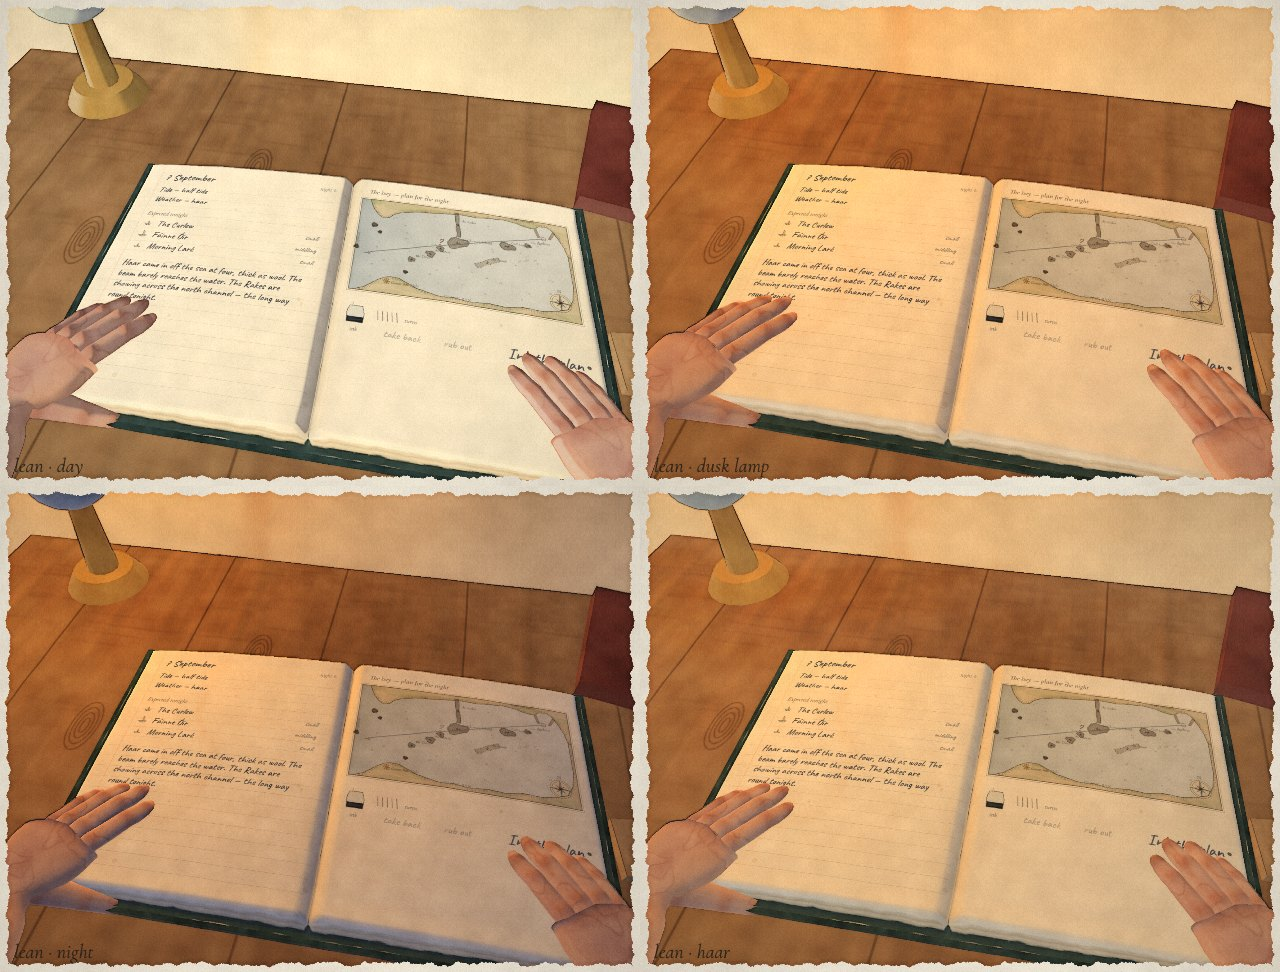
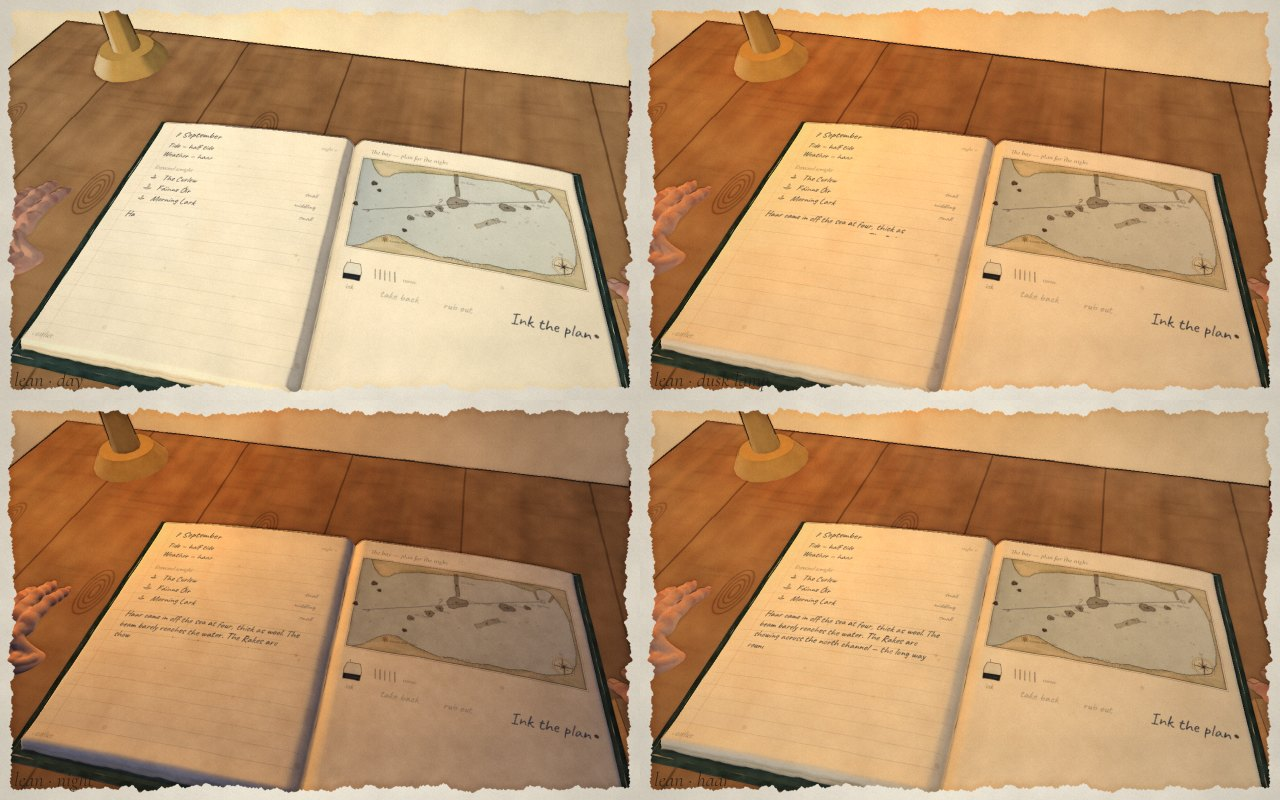
Hands (M7): screenshots 40-44, regenerated hand sheets, REPORT and docs
REPORT gains a milestone 7 section: the continuous old skin, the end of
the shaking (0 mm a frame held), the wrists' range and how it was
measured, the hands kept off the pages, and inking with the quill.
README, DESIGN and the handoff describe the new hands, handmesh.js and
inkwell.js. The palm-side webs sit a touch deeper (no glints in the
palm), and the hands review paints only the frame it keeps.

Claude-Session: https://claude.ai/code/session_01MaF5K2PwreNKvKrsbHzXcK

diff --git a/src/world/review.js b/src/world/review.js
@@ -25,9 +25,13 @@ export function installReview(game) {
     for (let i = 0; i < LIGHTS.length; i++) {
       k.review(pose, LIGHTS[i][0], LIGHTS[i][1]);
       game.snapLook = true;
-      // let the springs and the look settle, then take the frame in the same task it's drawn
+      // let the springs and the look settle (unpainted), then take the frame in the same task it's drawn
+      const nr = game.noRender;
+      game.noRender = true;
       game.step(40, 1 / 30);
+      game.noRender = false;
       game.step(1, 1 / 30);
+      game.noRender = nr;
       sx.drawImage(grab(tw, th), (i % 2) * tw, Math.floor(i / 2) * th);
       sx.font = 'italic 20px "Cormorant Garamond", serif';
       sx.fillStyle = 'rgba(30,26,22,0.8)';

diff --git a/src/world/handmesh.js b/src/world/handmesh.js
@@ -411,7 +411,7 @@ export function buildHandField(skel) {
     const a = fn[i], b = fn[i + 1];
     const A = skel.frame(a + '1').at(0, -2.6, -14), B = skel.frame(b + '1').at(0, -2.6, -14);
     add(capsule(A, B, 4.2), 6, 'web' + i);
-    add(capsule(skel.frame(a + '1').at(0, -3, -5), skel.frame(b + '1').at(0, -3, -5), 5.2), 6, 'web' + i);
+    add(capsule(skel.frame(a + '1').at(0, -1.6, -5), skel.frame(b + '1').at(0, -1.6, -5), 5.2), 6, 'web' + i);
     parts['web' + i] = { a, b, A, B };
   }
 

diff --git a/REPORT.md b/REPORT.md
@@ -497,3 +497,111 @@ Screenshots:
 * Measure the frame rate on an integrated-GPU laptop and on a phone (the brief's 60 fps target).
 * Try pointer lock and the touch stick.
 * Look at the watercolor under a real GPU against these software-rendered shots.
+
+## The hands, remodelled (milestone 7)
+
+**One continuous old skin** (`src/world/handmesh.js`). The old arm was a lofted forearm and palm with
+separate tubes for the fingers, which looked like sausages pushed into a mitten. The new one is built
+the way an anatomy drawing is: bony shapes smooth-unioned into one signed distance field.
+* **The shapes:** the forearm, the palm slab, the long bones of the hand with their knuckle heads, the
+  ball of the thumb, the heel of the hand, the pads under the knuckles, the webs between the fingers
+  and the thumb, and phalanges with joints wider than the shafts between them.
+* **Meshing.** The field is meshed once with surface nets (1.25 mm grid, each vertex pulled onto the
+  surface, normals from the field). Sealed pockets between the shapes are dropped.
+* **Weights.** Each vertex is weighted to the bones by which part of the hand owns it: the nearest
+  part, softly. Along a finger, the joint blends are short.
+* **Bind pose.** The skin is built with the fingers spread, so they can be told apart; every finger
+  pose is now absolute.
+* **An old man's hands** (the drawing references agree: less fat, so bone, tendon and vein show).
+  * Big knuckles and knobby finger joints.
+  * Extensor tendons, and wandering raised veins on the backs of the hands and up the forearms,
+    painted blue-grey.
+  * Age spots and mottling.
+  * The skin shader (`skin: true` on `wash`) draws, in the ink layer, bunched wrinkles over the
+    knuckles, a crêpe of fine crossing lines on the backs, and each nail's outline.
+  * Skin takes softer light bands than the room (`band`, `bare`), so small forms don't turn into
+    hard stripes.
+* **The sleeves** now run up over the shoulder and close, so from above they no longer show as open
+  tubes.
+* **Building it.** About 64k vertices per arm, about 1.4 s to build in this container. It's done in a
+  module worker started at boot, alongside the fonts, so the loading screen stays live. `prepareSkin`
+  falls back to building in place.
+
+**No more shaking.**
+* The tremor (23–37 Hz wobble on every wrist target, growing with drift), the finger jitter, the
+  breathing bob and the under-damped spring are gone.
+* Wrists now follow their targets critically damped. Nothing overshoots.
+* Held in any pose, a hand moves **0.000 mm a frame**. Before, it was 0.17–0.38 mm a frame, up to
+  1.3 mm while writing.
+
+**Natural wrists.**
+* **The elbow.** The IK puts the elbow where the forearm meets the hand as a wrist likes it.
+  Otherwise it leans on the body's pole, and it swings round at a limited rate.
+* **The forearm's turn** is one continuous angle from its neutral (thumb-up) position, within ±100°,
+  shared down the arm. It no longer wraps round from +180° to −180°.
+* **The wrist** is held inside an elliptical cone of its real range: 55° back, 65° forward, 20°
+  toward the thumb, 30° toward the little finger, and little twist of its own.
+* **Hanging hands** follow their arms (`align`).
+* **The arms ride with the body**, and at a cut they are simply placed where they belong.
+* **Poses can place a point of the hand.** The fingertips go under the cover's edge, and the palm
+  over the lever's ball (`at`). The cover and lever grips were fitted by a small search for the most
+  comfortable wrist.
+* **Checked** with a per-pose wrist report and a frame-by-frame trace of a whole autoplayed night.
+  * Before: hanging hands bent 78–103°, the lamp grip 153°/305°, and transitions flipped the wrist up
+    to 154° in one frame.
+  * Now: every pose is within range (at most 39° back, 30° forward, 17° toward the thumb, 28° toward
+    the little finger).
+  * The worst transition is about 50° in a frame, and only under autoplay's compressed timing.
+
+**Never over the journal.**
+* Leaning over the book, both hands rest on the table beside it. The fingertips reach at most to the
+  leather beyond the pages.
+* The pencil comes onto the page only while you are drawing (and for a second after). Otherwise the
+  page's own crosshair shows.
+* The left hand never goes onto the pages.
+* The cover is lifted at dawn with the fingertips and let fall.
+
+**Inking with a quill** (`src/world/inkwell.js`, `Keeper.inkSteps`). After the pencil line, *Ink
+the plan* now plays out:
+1. The head turns to the right of the book.
+2. The pencil is set down in the tray, point first, and falls flat.
+3. The hand takes the inkwell and slides it in beside the book.
+4. It draws the goose quill out of the well and dips it.
+5. It inks the line: the nib follows the route exactly, sliding smoothly between its points.
+6. The quill goes back in the well before the keeper straightens up.
+
+How it fits together:
+* The logbook's inking waits (`inking.hold`) until the nib is on the line. 2D play is unchanged.
+* The quill and the inkwell (glass with a brass collar, ink inside, the barbs of the feather drawn in
+  ink) are drawn in code, and the old dip pen is gone. The inkwell that was baked into the table
+  mesh was removed, and the red book moved back a few centimetres to make room for the hand.
+* The pencil grip was refitted to the new fingers.
+
+**Verified** (headless Chromium, SwiftShader):
+* `?debug=1&autoplay=1&speed=4` runs the whole game, all 19 nights with the inking each dusk, to
+  `AUTOPLAY COMPLETE` with no console errors.
+* `node tools/check-nights.mjs` passes.
+* The debug studio camera (`__review.studio(pose, {hand, az, el, dist})`) and the `show` pose were
+  used to look at the hands from every side.
+
+Screenshots:
+* [the skin from four sides](docs/screenshots/40-hands-old-skin.jpg)
+* [holding things: pencil, lever, mug, cover](docs/screenshots/41-hands-holding.jpg)
+* [inking the plan with the quill](docs/screenshots/42-inking-with-the-quill.jpg)
+* [before and after](docs/screenshots/43-hands-before-after.jpg)
+* [both hands beside the book, the pages clear](docs/screenshots/44-hands-beside-the-book.jpg)
+* The `hands-<pose>.jpg` sheets were regenerated, and `hands-ready.jpg` was added.
+
+**Still rough.**
+* **Covering while writing.** While drawing, the pencil hand covers the page below and to the right
+  of its point, and so does the quill hand while it inks. A hand can't write otherwise.
+* **The right hand at rest** lies beside the book, outside the leaning view's frame (only the left
+  one shows). That's how the camera is framed.
+* **Momentary poses.** The cover-lift is mostly hidden behind the cover. In the mug pose, the
+  fingertips stop just short of the mug.
+* **Mesh defect.** Three sub-millimetre flipped triangles where a vein crosses a tendon on the back of
+  the wrist.
+* **Build time.** On a slow phone the skin may take a few seconds to build. It does so while the title
+  shows.
+* **Hardware.** Everything was seen only in software rendering, not yet under a real GPU.
+

diff --git a/docs/HANDOFF.md b/docs/HANDOFF.md
@@ -12,8 +12,8 @@ before you change anything. Run the game with `python3 tools/serve.py 8001`.
 | M3 | 8d81651 | The keeper's hands, posed and solved |
 | M4 | cac9fbf | The night from the chair: Fleet, time-lapse, beats, the sill note, eyelids |
 | M5 | 4a02fed | The day: the door, the headland walk, the six places, the light failing; the first-person stairs; footsteps, room tone and two reverbs |
-
-| M6 | (this commit) | First person is the default (`?view=classic` for 2D, automatic fallback); README and DESIGN; screenshots 36–39 |
+| M6 | 1185ce4 | First person is the default (`?view=classic` for 2D, automatic fallback); README and DESIGN; screenshots 36–39 |
+| M7 | (this branch) | The hands remodelled: one continuous old skin, no shaking, natural wrists, never over the pages, inking with a quill; screenshots 40–44 |
 
 REPORT.md has a section for each milestone, including what is still rough and what was decided
 differently from the plan (M5: the clock runs at √pace; the climb is 8 treads, not 14).
@@ -82,11 +82,19 @@ In first person (the default; not with `?view=classic`):
 - `onStep(speed)` fires every 0.72 m of stride (the stride, not the cadence, grows with the pace).
 - `speedScale` (the outdoor pace) and `autoTo` (autoplay steering to a world point).
 
-### hands.js
+### hands.js, handmesh.js, inkwell.js
 
-- `POSES`: walk, door, lean, write, pen, turn, lamp, chair, mug, close, rail, and others; see
-  `POSE_NAMES`.
-- `setPose(name, dur)`. The keeper owns the frames.
+- `POSES`: walk, door, lean, ready, write, pen, turn, close, chair, mug, lamp, rail, the inking steps
+  (`ink-tray`, `ink-well`, `ink-take`, `ink-lift`) and the debug `show`; see `POSE_NAMES`.
+- A pose places the wrist in a frame (`pos`/`rot`), or a point of the hand there (`at`), or lets a
+  hanging hand follow its arm (`align`), or holds a tool lying in a frame (`grasp`), or puts a tool's
+  tip on `hands.tip` (`tip`).
+- `setPose(name, dur)`. The keeper owns the frames. `take(tool)` / `put(tool, parent, pos, rot)` move
+  the pencil and the quill between the hand and the desk.
+- The skin is a distance field (handmesh.js) meshed at boot in a worker (`prepareSkin`, started from
+  `boot()` in main.js; it falls back to building in place).
+- The inking sequence is `Keeper.inkSteps()`; it holds the logbook's `inking` (`inking.hold`) until
+  the nib is on the line, and `nibAt()` follows `scene.penPts`.
 
 ### Audio (src/audio/)
 
@@ -128,8 +136,8 @@ In first person (the default; not with `?view=classic`):
   `render/paint.js`). Nothing is downloaded.
 - **Commit after each milestone and add a REPORT.md section for it.** The section says what was
   built, how it was checked, the screenshots taken, and what is still rough.
-- **Screenshots** are numbered in `docs/screenshots/`. The last M5 one is
-  `35-finale-stairs-hatch.jpg`.
+- **Screenshots** are numbered in `docs/screenshots/`. The last one is
+  `44-hands-beside-the-book.jpg`.
 - **check-nights**: `node tools/check-nights.mjs`.
 - **Dev server**: `.claude/launch.json` has `keeping-light-dev`, which runs
   `python3 tools/serve.py 8001`.

diff --git a/DESIGN.md b/DESIGN.md
@@ -43,7 +43,9 @@ src/world/geo.js           chart ↔ world (4 m to a chart unit), the tower, the
 src/world/keeper.js        the first-person game: phases, camera, states, prompts, HUD, autoplay
 src/world/room.js          the watch room, its door, stairs and sill, and the tower top seen from outside
 src/world/book.js          the logbook on the table: LogbookScene's layers as page textures, raycast input
-src/world/hands.js         the forearms and hands: skinned lofts, poses, two-bone IK, tremor
+src/world/hands.js         the forearms and hands: poses, two-bone IK with a wrist's limits, the grips
+src/world/handmesh.js      the old hands' skin as one distance field, meshed (in a worker) and weighted
+src/world/inkwell.js       the inkwell and the goose quill the plan is inked with
 src/world/walker.js        walking: keys and mouse look, touch stick, the pace, autoplay steering
 src/world/bay.js           the bay from the chart: land, sea, reefs, village, piers, ships, beam, beats
 src/world/night.js         the night from the chair: Fleet, the time-lapse and its slowdowns
@@ -131,8 +133,9 @@ take over through a bloom.
 
 ## Decisions made for first person
 
-* **Hands only.** No body, no shadow; two skinned forearms with eleven authored poses, two-bone IK,
-  and a tremor that grows with the handwriting's drift (REPORT, milestone 3).
+* **Hands only.** No body, no shadow; two skinned forearms with authored poses and two-bone IK held
+  inside a wrist's real range (REPORT, milestones 3 and 7). An old man's hands: one continuous skin,
+  bony knuckles, veins and wrinkles. They never shake, and they never lie over the pages.
 * **The bay is built from the chart** at 4 m to a unit, so the line in the book is the line from the
   window.
 * **The window faces the middle of the bay** (chart 50, 30), so the reefs fall inside it.

diff --git a/README.md b/README.md
@@ -51,7 +51,8 @@ You are the keeper, in first person: all you ever see of yourself is your forear
   * The inkwell and the tally marks show how much ink and how many turns you have left.
   * Bigger boats need more room. Reefs drawn faint and dashed only matter at low water, so read the
     tide. A "?" in pencil means the line runs close to rock for the biggest boat tonight.
-  * When it looks right, **Ink the plan**: the hand takes the dip pen and inks it.
+  * When it looks right, **Ink the plan**: the keeper sets the pencil down, brings the inkwell in,
+    draws the quill out of it, dips it, and inks the line along your route.
   * ← / → or *earlier* turns back through the book. Older pages are worth reading.
 * **Night.** You pull the lamp lever and sit in the chair at the window. The boats follow exactly the
   line you inked, and the night runs on while nothing is happening, slowing for every boat near rock
